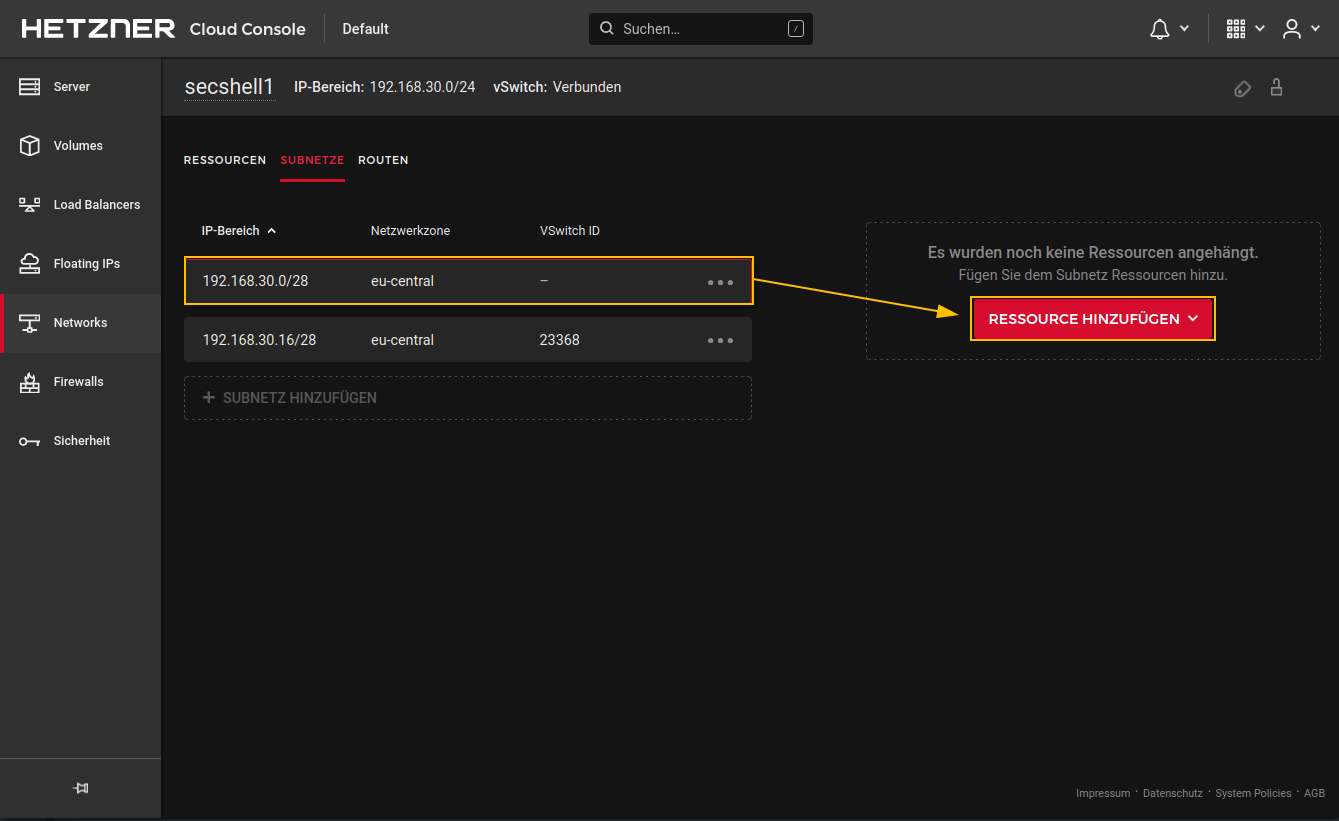
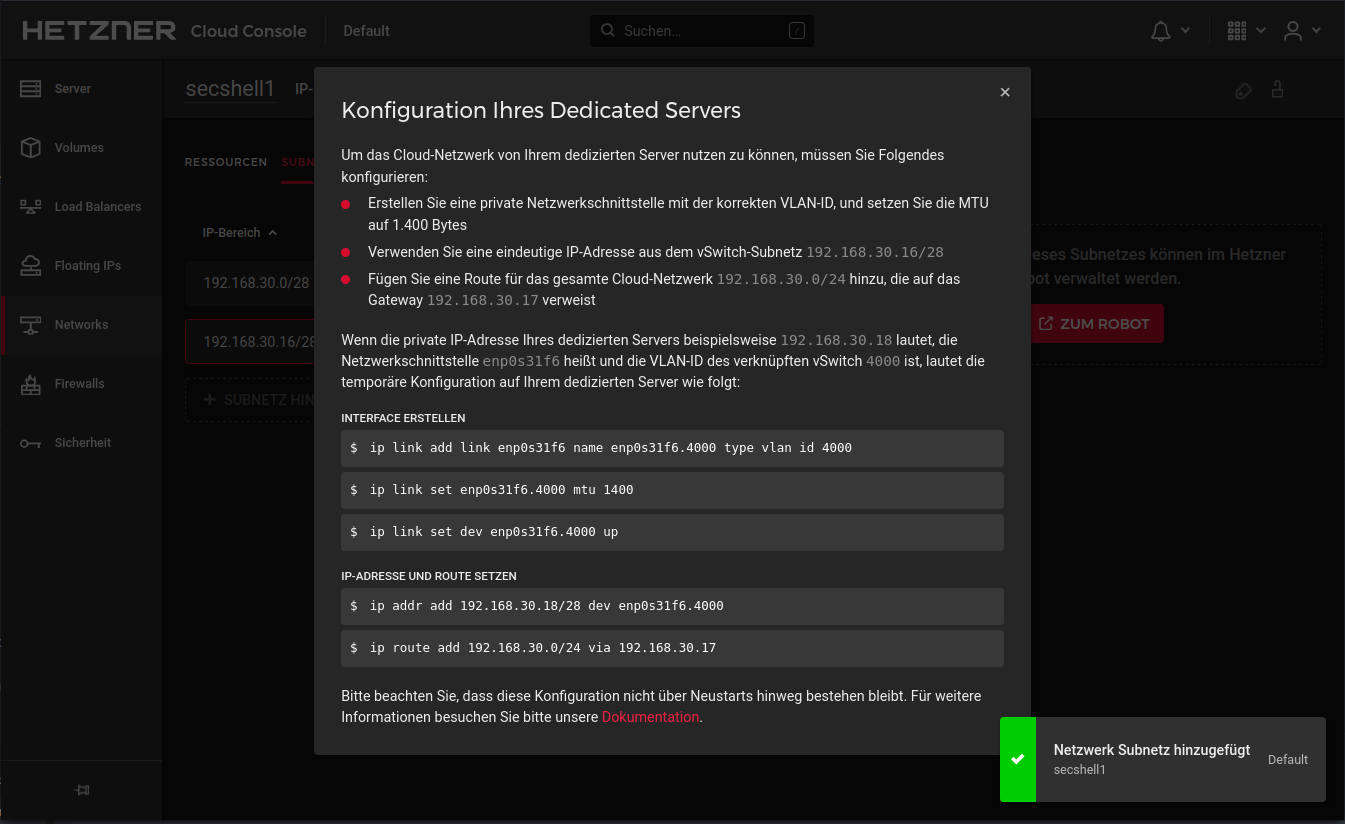
improved vswitch description

diff --git a/docs_de/1._Setup/6_vswitch.md b/docs_de/1._Setup/6_vswitch.md
@@ -6,12 +6,13 @@ Die von Hetzner angebotenen vSwitches können zum Verbinden von mehreren Servern
 ![Hetzner Cloud: Netzwerk erstellen](../img/setup/vswitch/vswitch_create2.png?raw=true){: loading=lazy }
 ![Hetzner Robot: vSwitch Menü](../img/setup/vswitch/vswitch_create3.png?raw=true){: loading=lazy }
 ![Hetzner Robot: vSwitch erstellen](../img/setup/vswitch/vswitch_create4.png?raw=true){: loading=lazy }
-![Hetzner Cloud: Subnetz hinzufügen](../img/setup/vswitch/vswitch_create5.png?raw=true){: loading=lazy }
-![Hetzner Cloud: Subnetz Konfigurationshinweis](../img/setup/vswitch/vswitch_create6.png?raw=true){: loading=lazy }
+![Hetzner Robot: Dedicated Server zu vSwitch hinzufügen](../img/setup/vswitch/vswitch_create5.png?raw=true){: loading=lazy }
+![Hetzner Cloud: Subnetz hinzufügen](../img/setup/vswitch/vswitch_create6.png?raw=true){: loading=lazy }
+![Hetzner Cloud: Subnetz Konfigurationshinweis](../img/setup/vswitch/vswitch_create7.png?raw=true){: loading=lazy }
 
 Der Cloudserver kann schließlich im 28er Subnetz für Cloudserver hinzugefügt werden, die Konfiguration erfolgt automatisch:
-![Hetzner Cloud: Cloudserver hinzufügen](../img/setup/vswitch/vswitch_create7.png?raw=true){: loading=lazy }
-![Hetzner Cloud: Subnetzübersicht](../img/setup/vswitch/vswitch_create8.png?raw=true){: loading=lazy }
+![Hetzner Cloud: Cloudserver hinzufügen](../img/setup/vswitch/vswitch_create8.png?raw=true){: loading=lazy }
+![Hetzner Cloud: Subnetzübersicht](../img/setup/vswitch/vswitch_create9.png?raw=true){: loading=lazy }
 ![Hetzner Cloud: Netzwerkkonfiguration Cloudserver](../img/setup/vswitch/vswitch_cloudserver.png?raw=true){: loading=lazy }
 
 Falls die Firewall des Dedicated Servers aktiviert wurde, muss eine Firewall Regel erstellt werden, die Pakete in das erstellte Subnetz erlaubt. In diesem Fall wurde eine Firewall Regel erstellt, die das gesamte Private 16er Netzwerk abdeckt, sodass bei weiteren vSwitches in diesem Netzsegment (192.160.0.0/16) keine weitere Anpassung erforderlich ist: 

diff --git a/docs_en/1._Setup/6_vswitch.md b/docs_en/1._Setup/6_vswitch.md
@@ -8,6 +8,7 @@ The vSwitches offered by Hetzner can be used to connect multiple servers. The se
 ![Hetzner Cloud: create network](../img/setup/vswitch/vswitch_create2.png?raw=true){: loading=lazy }
 ![Hetzner Robot: vSwitch menu](../img/setup/vswitch/vswitch_create3.png?raw=true){: loading=lazy }
 ![Hetzner Robot: create vSwitch](../img/setup/vswitch/vswitch_create4.png?raw=true){: loading=lazy }
+![Hetzner Robot: add dedicated server to vSwitch](../img/setup/vswitch/vswitch_create5.png?raw=true){: loading=lazy }
 ![Hetzner Cloud: add subnet](../img/setup/vswitch/vswitch_create5.png?raw=true){: loading=lazy }
 ![Hetzner Cloud: configuration information](../img/setup/vswitch/vswitch_create6.png?raw=true){: loading=lazy }
 
